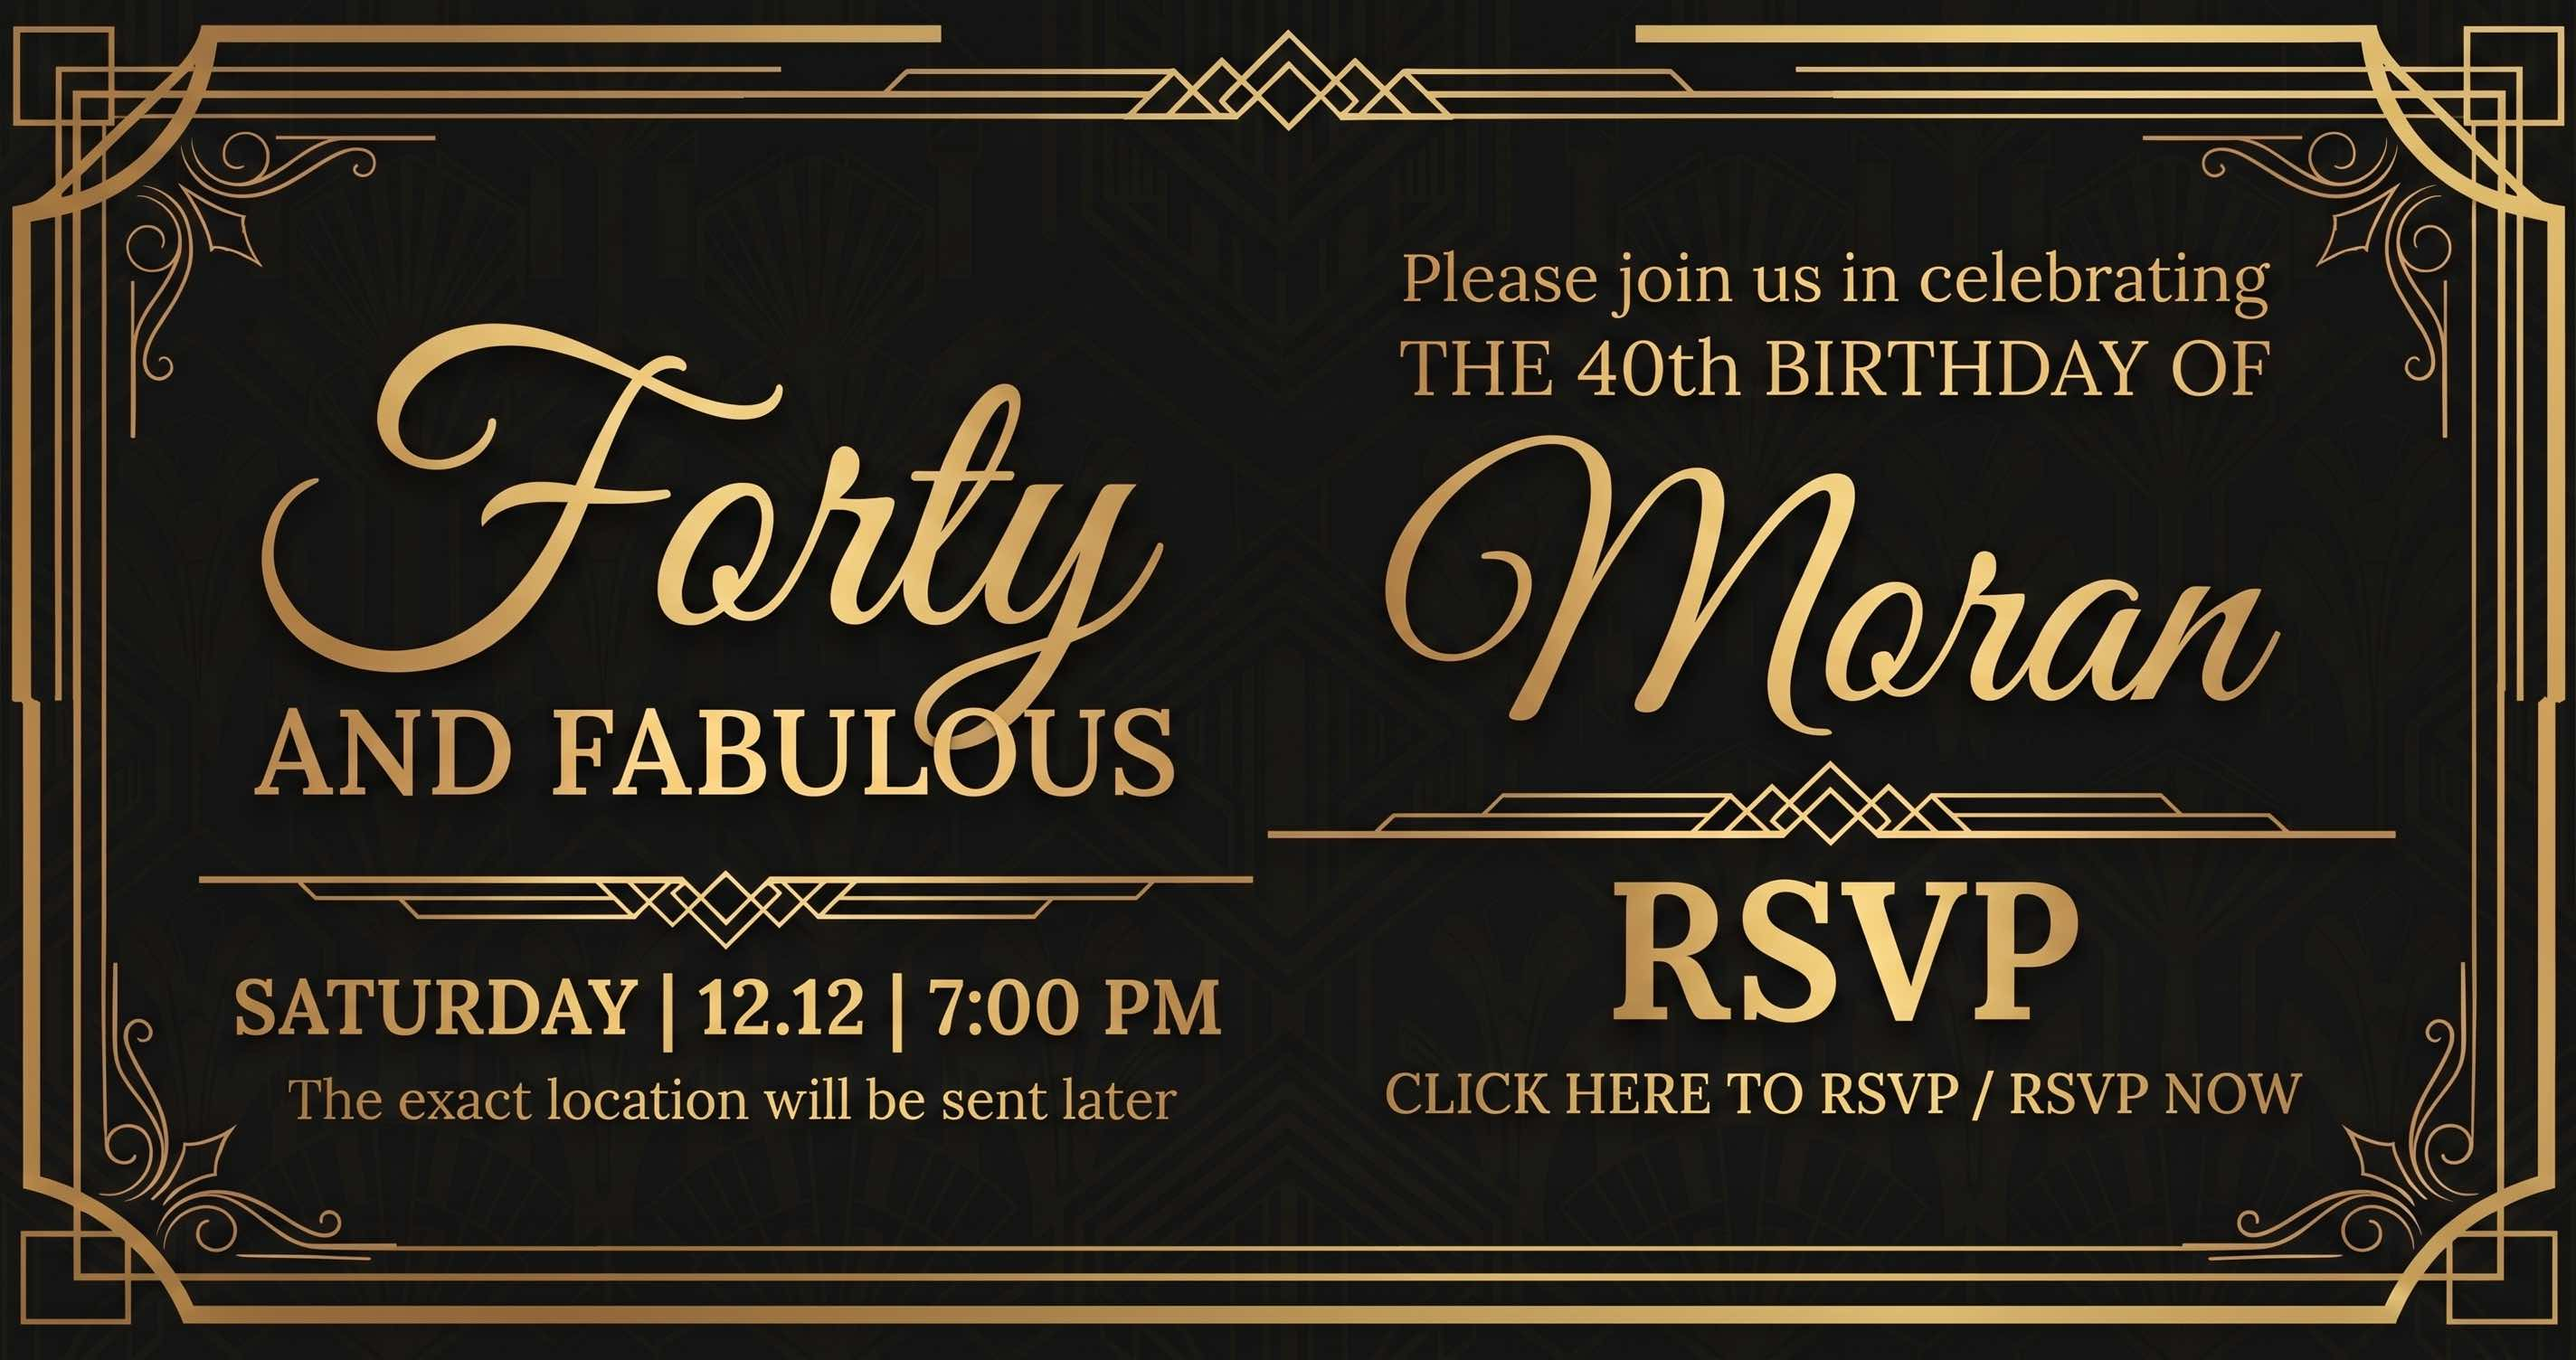
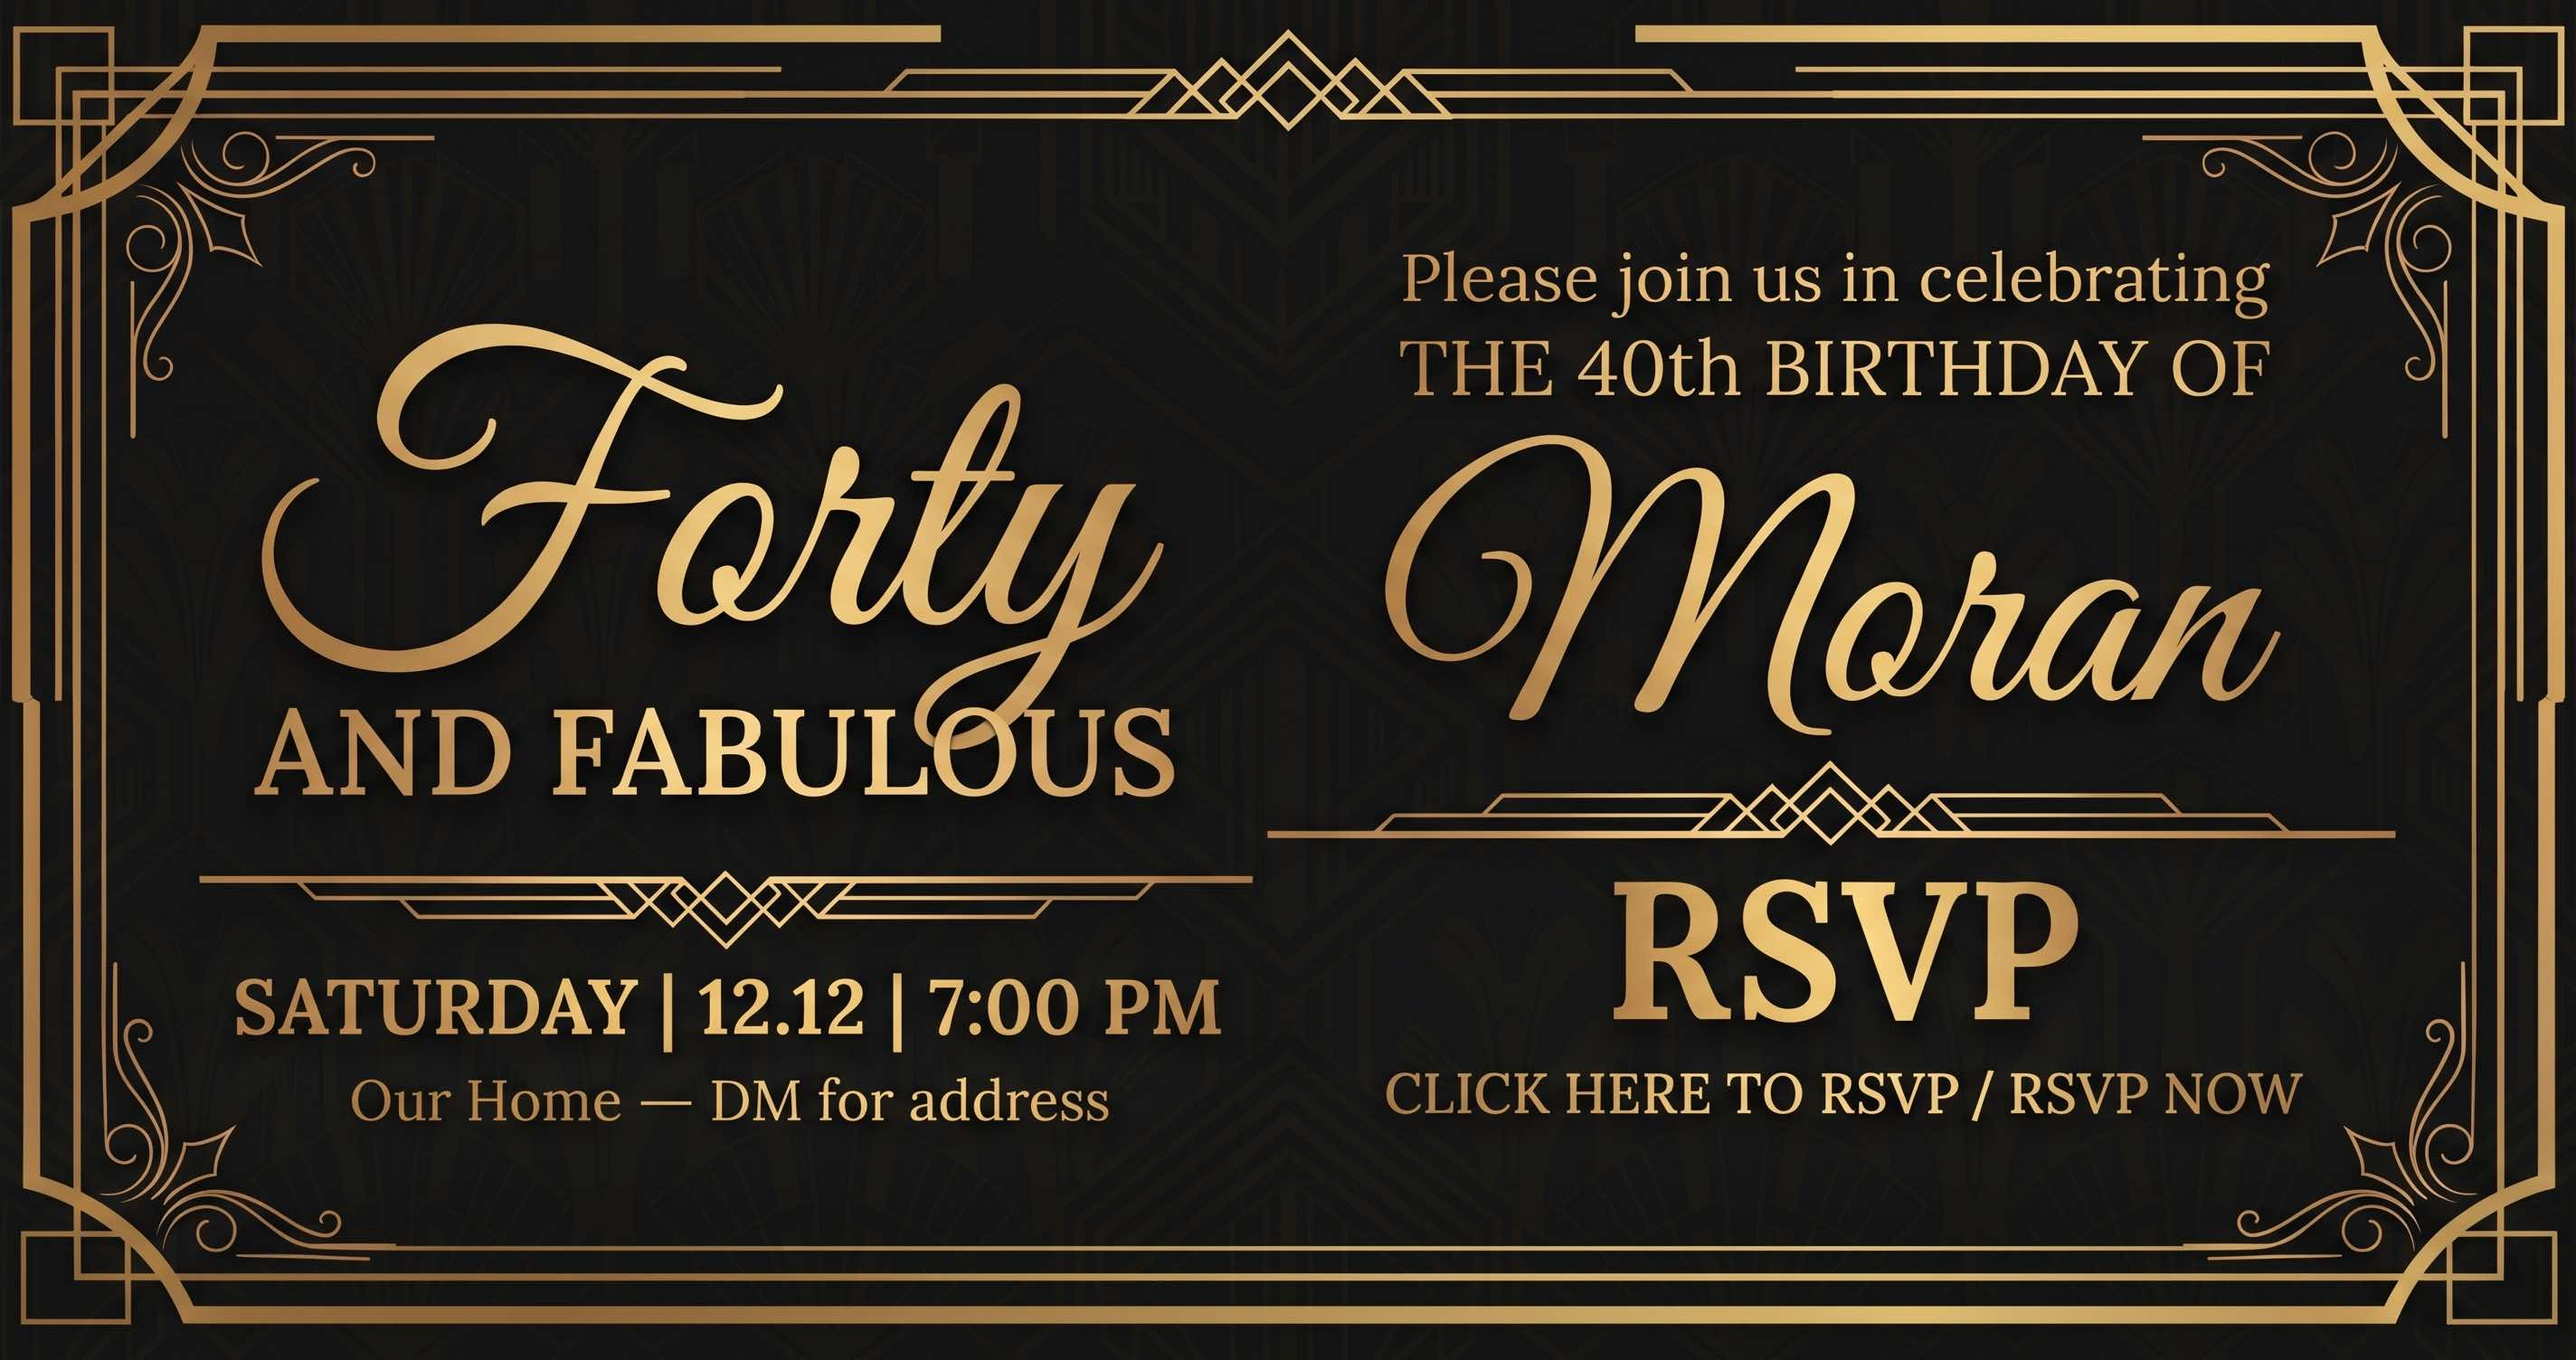
Change header to 40

diff --git a/index.html b/index.html
@@ -8,8 +8,8 @@
 
   <!-- WhatsApp Rich Preview Tags -->
   <meta property="og:title" content="Moran's 40th Birthday! ✨" />
-  <meta property="og:description" content="Saturday, 12.12 at 7:00 PM | Tap for full details & RSVP" />
-  <meta property="og:image" content="https://sifo-12.github.io/40bday/og-image.jpg" />
+  <meta property="og:description" content="Saturday, 12.12 at 7:00 PM | Tap to RSVP" />
+  <meta property="og:image" content="https://sifo-12.github.io/40bday/og-image.jpg?v=3" />
   <meta property="og:type" content="website" />
 
   <link rel="preconnect" href="https://fonts.googleapis.com">
@@ -36,10 +36,11 @@
       color: var(--gold-light);
       font-family: 'Montserrat', sans-serif;
       min-height: 100vh;
+      min-height: 100dvh;
       display: flex;
       justify-content: center;
       align-items: center;
-      padding: 16px;
+      padding: 8px;
       background-image: 
         radial-gradient(circle at 100% 150%, #121214 24%, #1c1910 25%, #1c1910 28%, #121214 29%, #121214 36%, #1c1910 36%, #1c1910 40%, transparent 40%, transparent),
         radial-gradient(circle at 0    150%, #121214 24%, #1c1910 25%, #1c1910 28%, #121214 29%, #121214 36%, #1c1910 36%, #1c1910 40%, transparent 40%, transparent),
@@ -49,130 +50,124 @@
 
     .invite-container {
       background-color: var(--card-black);
-      max-width: 480px;
+      max-width: 440px;
       width: 100%;
-      padding: 12px;
+      padding: 8px;
       border: 2px solid var(--gold-main);
       box-shadow: 0 15px 40px rgba(0, 0, 0, 0.9), 0 0 25px rgba(212, 175, 55, 0.15);
       position: relative;
+      margin: auto;
     }
 
     .inner-border {
       border: 1px solid var(--gold-main);
-      padding: 36px 24px;
+      padding: 20px 16px;
       text-align: center;
       position: relative;
     }
 
     .corner {
       position: absolute;
-      width: 24px;
-      height: 24px;
+      width: 18px;
+      height: 18px;
       border: 2px solid var(--gold-main);
     }
-    .top-right { top: 6px; right: 6px; border-left: none; border-bottom: none; }
-    .top-left { top: 6px; left: 6px; border-right: none; border-bottom: none; }
-    .bottom-right { bottom: 6px; right: 6px; border-left: none; border-top: none; }
-    .bottom-left { bottom: 6px; left: 6px; border-right: none; border-top: none; }
+    .top-right { top: 4px; right: 4px; border-left: none; border-bottom: none; }
+    .top-left { top: 4px; left: 4px; border-right: none; border-bottom: none; }
+    .bottom-right { bottom: 4px; right: 4px; border-left: none; border-top: none; }
+    .bottom-left { bottom: 4px; left: 4px; border-right: none; border-top: none; }
 
-    .forty-script {
-      font-family: 'Great Vibes', cursive;
-      font-size: 4.8rem;
-      line-height: 0.9;
+    .forty-number {
+      font-family: 'Cinzel', serif;
+      font-weight: 700;
+      font-size: clamp(3.4rem, 11vh, 4.6rem);
+      line-height: 1;
+      letter-spacing: 6px;
       background: linear-gradient(to bottom, var(--gold-light), var(--gold-main), var(--gold-dark));
       -webkit-background-clip: text;
       -webkit-text-fill-color: transparent;
-      margin-bottom: 4px;
-    }
-
-    .fabulous-sub {
-      font-family: 'Cinzel', serif;
-      letter-spacing: 5px;
-      font-size: 0.95rem;
-      color: var(--gold-main);
-      text-transform: uppercase;
-      margin-bottom: 24px;
+      margin: 4px 0 10px;
     }
 
     .divider {
       height: 1px;
       background: linear-gradient(to right, transparent, var(--gold-main), transparent);
-      margin: 20px auto;
+      margin: 12px auto;
       width: 75%;
     }
 
     .intro-text {
-      font-size: 0.95rem;
+      font-size: clamp(0.8rem, 1.8vh, 0.9rem);
       font-weight: 300;
-      letter-spacing: 1px;
+      letter-spacing: 0.5px;
       color: #e0d8c3;
-      line-height: 1.6;
+      line-height: 1.4;
     }
 
     .name-title {
       font-family: 'Great Vibes', cursive;
-      font-size: 4.2rem;
+      font-size: clamp(2.8rem, 10vh, 3.8rem);
       font-weight: 400;
       color: var(--gold-main);
-      margin: 6px 0 14px;
+      margin: 2px 0 8px;
       text-shadow: 0 2px 10px rgba(212, 175, 55, 0.25);
     }
 
     .details-box {
-      margin: 18px 0;
-      font-size: 1.05rem;
-      line-height: 1.8;
+      margin: 10px 0;
+      font-size: clamp(0.85rem, 2vh, 1rem);
+      line-height: 1.5;
     }
 
     .details-box strong {
       font-family: 'Cinzel', serif;
       color: var(--gold-main);
       font-weight: 700;
-      letter-spacing: 1.5px;
+      letter-spacing: 1px;
     }
 
     .location-text {
-      font-size: 0.95rem;
+      font-size: clamp(0.75rem, 1.8vh, 0.85rem);
       color: #cfc5ab;
-      margin-top: 4px;
+      margin-top: 2px;
     }
 
     /* RSVP Section */
     .rsvp-section {
-      margin-top: 26px;
+      margin-top: 14px;
       text-align: left;
     }
 
     .rsvp-title {
       text-align: center;
       font-family: 'Cinzel', serif;
-      font-size: 1.4rem;
+      font-size: clamp(1.1rem, 2.5vh, 1.3rem);
       font-weight: 700;
       color: var(--gold-main);
-      margin-bottom: 18px;
-      letter-spacing: 3px;
+      margin-bottom: 10px;
+      letter-spacing: 2px;
     }
 
     .form-group {
-      margin-bottom: 16px;
+      margin-bottom: 10px;
     }
 
     label {
       display: block;
-      font-size: 0.85rem;
-      margin-bottom: 6px;
+      font-size: clamp(0.7rem, 1.5vh, 0.8rem);
+      margin-bottom: 4px;
       color: var(--gold-light);
       letter-spacing: 0.5px;
     }
 
     input, select {
       width: 100%;
-      padding: 12px;
+      padding: 9px;
       background-color: #1b1b1e;
       border: 1px solid rgba(212, 175, 55, 0.5);
       color: #fff;
       font-family: 'Montserrat', sans-serif;
-      font-size: 0.95rem;
+      font-size: 0.9rem;
       border-radius: 2px;
       outline: none;
       transition: border-color 0.3s;
@@ -184,13 +179,13 @@
 
     .submit-btn {
       width: 100%;
-      padding: 14px;
-      margin-top: 12px;
+      padding: 10px;
+      margin-top: 8px;
       background: linear-gradient(45deg, var(--gold-dark), var(--gold-main), var(--gold-light));
       border: none;
       color: #0b0b0c;
       font-family: 'Cinzel', serif;
-      font-size: 1.05rem;
+      font-size: clamp(0.9rem, 2vh, 1rem);
       font-weight: 700;
       cursor: pointer;
       letter-spacing: 2px;
@@ -211,12 +206,12 @@
     }
 
     #status-message {
-      margin-top: 16px;
+      margin-top: 12px;
       text-align: center;
-      font-size: 1rem;
+      font-size: 0.95rem;
       color: var(--gold-light);
       display: none;
-      padding: 14px;
+      padding: 12px;
       border: 1px solid var(--gold-main);
       background: rgba(212, 175, 55, 0.1);
       line-height: 1.5;
@@ -232,8 +227,7 @@
       <div class="corner bottom-right"></div>
       <div class="corner bottom-left"></div>
 
-      <div class="forty-script">Forty</div>
-      <div class="fabulous-sub">AND FABULOUS</div>
+      <div class="forty-number">40</div>
 
       <div class="divider"></div>
 
@@ -242,7 +236,7 @@
 
       <div class="details-box">
         <div><strong>SATURDAY | 12.12 | 7:00 PM</strong></div>
-        <div class="location-text">The exact location will be sent later</div>
+        <div class="location-text">Our Home — DM for address</div>
       </div>
 
       <div class="divider"></div>
@@ -272,7 +266,6 @@
   </div>
 
   <script>
-    // 1. הדבק כאן את כתובת ה-Web App URL שקיבלת מגוגל
     const SCRIPT_URL = 'https://script.google.com/macros/s/AKfycbwoG-aRs2tXqWeFrXq-e5OBR8XuT-tFnez8yB4aLErlD49n6uE6dY7ZrepxNdTtBSqZcA/exec';
 
     const form = document.getElementById('rsvp-form');
